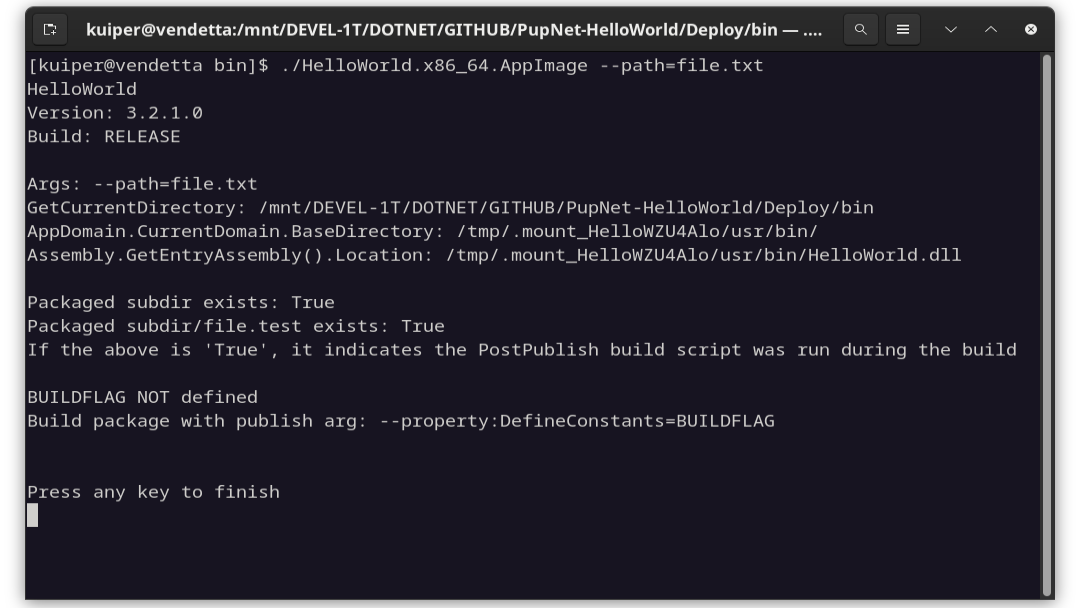
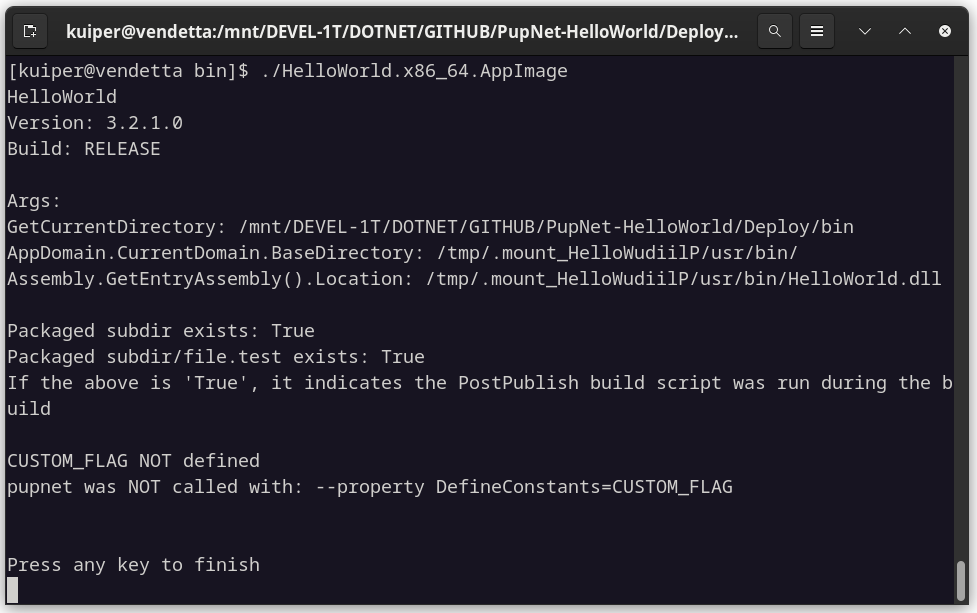
Update

diff --git a/HelloWorld/Program.cs b/HelloWorld/Program.cs
@@ -56,14 +56,14 @@ namespace HelloWorld
             Console.WriteLine("If the above is 'True', it indicates the PostPublish build script was run during the build");
             Console.WriteLine();
 
-#if BUILDFLAG
+#if CUSTOM_FLAG
             // Test for passing property from command line
             // NOTE. In some case, you might have to do a clean first
-            Console.WriteLine("BUILDFLAG constant defined OK");
-            Console.WriteLine("The build was called with --property:DefineConstants=BUILDFLAG");
+            Console.WriteLine("CUSTOM_FLAG defined OK");
+            Console.WriteLine("pupnet was called with: --property DefineConstants=CUSTOM_FLAG");
 #else
-            Console.WriteLine("BUILDFLAG NOT defined");
-            Console.WriteLine("Build package with publish arg: --property:DefineConstants=BUILDFLAG");
+            Console.WriteLine("CUSTOM_FLAG NOT defined");
+            Console.WriteLine("pupnet was NOT called with: --property DefineConstants=CUSTOM_FLAG");
 #endif
 
             Console.WriteLine();

diff --git a/README.md b/README.md
@@ -10,19 +10,19 @@
 command-line utility.
 
 ### What is PupNet Deploy? ###
-**PupNet** is cross-platform deployment utility that will publish your .NET project and package the output as a
-ready-to-ship installation file in a single step.
+**PupNet Deploy** is a cross-platform deployment utility publishes your .NET project and
+packages it as a ready-to-ship installation file in a single step.
 
 ## About this Application ##
 
 Hello World demonstrates all the major features of building distributable packages with PupNet.
 It can be built for all package kinds, including AppImage, Flatpak, DEB and RPM formats on Linux,
 and as a Setup file on Windows. It provides an example of using desktop and AppStream metadata files,
-as well as icons and a post-publish script.
+as well as icons and post-publish scripts.
 
-You will notice, for example, that it has an AppStream metadata file and associated desktop file make
-use of macro variables for a high degree of content automation, so that information need only be
-specified once in the primary configuration.
+You will notice, for example, that it has an AppStream metadata file and associated desktop file, both
+of which make use of macro variables for a high degree of content automation, so that information need
+only be specified once in the primary configuration.
 
 <p style="text-align:left;">
     <img src="Media/Screenshot.png" style="width:50%;max-width:2000px"/>
@@ -51,6 +51,15 @@ At the solution directory, under Linux:
 Under Windows:
 
     pupnet -k setup
+
+To test the specifying a custom flag:
+
+    pupnet -k appimage --property DefineConstants=CUSTOM_FLAG
+
+In this case, the Hello World program will output the following when built, installed and run:
+
+    CUSTOM_FLAG defined OK
+    pupnet was called with: --property DefineConstants=CUSTOM_FLAG;
 
 See the [PupNet Deploy Project](https://github.com/kuiperzone/PupNet-Deploy) for complete instructions and information.
 
